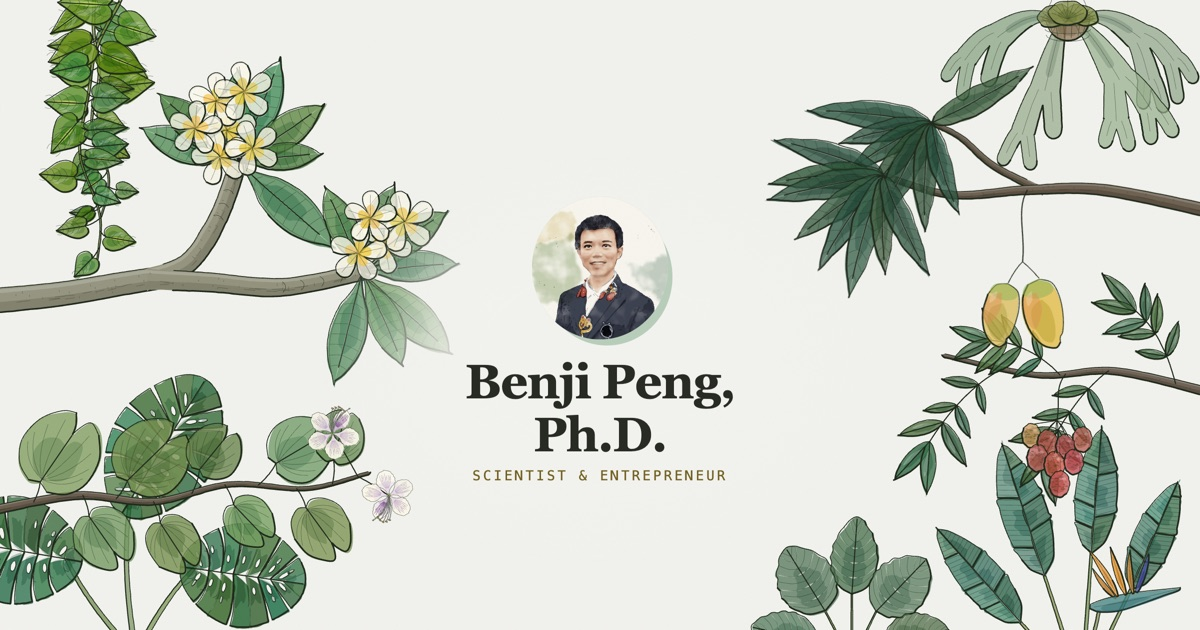
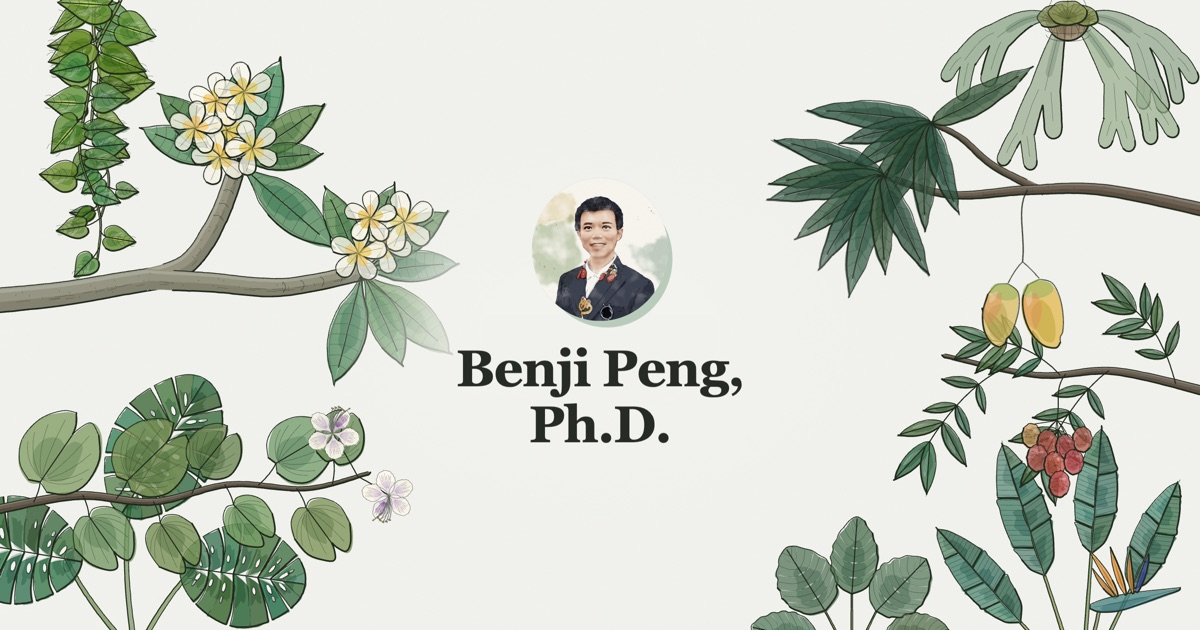
Open on the name and links, and bring the portrait in with the scroll
The "Scientist & Entrepreneur" line under the name is gone. The page now
opens with the name and link cards only. The portrait fades in from a third
to six tenths of the way through the scroll, so touch screens see it arrive
during the autoplay. A class set by the head script keeps the portrait
unseen until main.ts takes over, and shows it after four seconds if the
script never runs. Reduced motion shows it from the start. The share image
is retaken without the title line, and AGENTS.md describes the opening.

Changed region(s): [[0.37, 0.3016, 0.6167, 0.7841], [0.3392, 0.3317, 0.37, 0.4222], [0.2775, 0.3921, 0.3083, 0.4222]]

diff --git a/index.html b/index.html
@@ -28,12 +28,12 @@
     <meta property="og:image:type" content="image/jpeg" />
     <meta property="og:image:width" content="1200" />
     <meta property="og:image:height" content="630" />
-    <meta property="og:image:alt" content="Watercolor portrait of Benji Peng over a hand-drawn tropical garden, with the name Benji Peng, Ph.D., Scientist and Entrepreneur." />
+    <meta property="og:image:alt" content="Watercolor portrait of Benji Peng over a hand-drawn tropical garden, with the name Benji Peng, Ph.D." />
     <meta property="profile:first_name" content="Benji" />
     <meta property="profile:last_name" content="Peng" />
     <meta name="twitter:card" content="summary_large_image" />
     <meta name="twitter:image" content="https://benji.appcubic.com/social.jpg" />
-    <meta name="twitter:image:alt" content="Watercolor portrait of Benji Peng over a hand-drawn tropical garden, with the name Benji Peng, Ph.D., Scientist and Entrepreneur." />
+    <meta name="twitter:image:alt" content="Watercolor portrait of Benji Peng over a hand-drawn tropical garden, with the name Benji Peng, Ph.D." />
     <meta name="twitter:creator" content="@benjipeng" />
 
     <script type="application/ld+json">
@@ -79,6 +79,8 @@
         } catch {
           document.documentElement.dataset.theme = "light";
         }
+        // The portrait stays away when the page opens, until main.ts fades it in with the scroll.
+        if (!matchMedia("(prefers-reduced-motion: reduce)").matches) document.documentElement.classList.add("reveal");
       })();
     </script>
   </head>
@@ -115,7 +117,6 @@
                 </span>
               </div>
               <h1>Benji Peng, Ph.D.</h1>
-              <p class="eyebrow">Scientist &amp; Entrepreneur</p>
             </header>
             <nav class="links" aria-label="Links">
               <div class="link-row">

diff --git a/src/main.ts b/src/main.ts
@@ -89,13 +89,14 @@ if (!still) {
   });
 }
 
-// Scroll story: one smoothed progress value grows the garden. Link rows drift at staggered
-// rates, measured in the height of a one-line row so taller rows never close the gap above
-// them. The cue's seedling grows along, and the cue fades out before the rising card reaches
+// Scroll story: one smoothed progress value grows the garden. The portrait stays away at first
+// and fades in partway through. Link rows drift at staggered rates, measured in the height of a
+// one-line row so taller rows never close the gap above them. The cue's seedling grows along, and the cue fades out before the rising card reaches
 // it. The value eases toward the page's scroll and stops ticking once it arrives.
 function followScroll() {
   const track = document.querySelector<HTMLElement>(".scroll-track")!;
   const header = document.querySelector<HTMLElement>(".card header")!;
+  const portrait = header.querySelector<HTMLElement>(".avatar-frame")!;
   const rows = [...document.querySelectorAll<HTMLElement>(".link-row")];
   const cue = document.querySelector<HTMLElement>(".scroll-cue")!;
   const stem = cue.querySelector<SVGPathElement>(".sprout-stem")!;
@@ -122,6 +123,8 @@ function followScroll() {
     if (Math.abs(target - growth.scroll) < 5e-4) growth.scroll = target;
     const s = growth.scroll;
     header.style.translate = `0 ${-12 * s}%`;
+    portrait.style.opacity = String(clamp((s - 0.3) / 0.3));
+    root.classList.remove("reveal");
     rows.forEach((row, i) => (row.style.translate = `0 ${-(0.2 + i * 0.12) * unit * s}px`));
     cue.style.opacity = String(clamp((0.6 - s) / 0.2));
     cue.style.visibility = s < 0.6 ? "" : "hidden"; // a hidden cue costs its blur nothing

diff --git a/src/style.css b/src/style.css
@@ -106,6 +106,19 @@ body {
 
 /* Card */
 
+/* The portrait stays away when the page opens, and main.ts fades it in with the scroll. Until
+   the script takes over, it waits unseen, and it shows anyway if the script never runs. */
+.reveal .avatar-frame {
+  opacity: 0;
+  animation: reveal-anyway 0.6s 4s forwards;
+}
+
+@keyframes reveal-anyway {
+  to {
+    opacity: 1;
+  }
+}
+
 .card {
   width: min(100%, 23.5rem);
   display: flex;
@@ -171,21 +184,12 @@ body {
 }
 
 h1 {
-  margin: 1rem 0 0.4rem;
+  margin: 1rem 0 0;
   font-family: ui-serif, "New York", Georgia, "Times New Roman", serif;
   font-size: clamp(2.1rem, 5vw, 3.05rem);
   line-height: 1.1;
   font-weight: 700;
   letter-spacing: -0.02em;
-}
-
-.eyebrow {
-  margin: 0;
-  font-family: ui-monospace, "SF Mono", Menlo, Consolas, monospace;
-  font-size: 0.72rem;
-  text-transform: uppercase;
-  letter-spacing: 0.18em;
-  color: var(--accent-ink);
 }
 
 /* Rows stack in one grid. Its middle columns hold the project rows' icons and names, so those
@@ -487,7 +491,7 @@ footer a:hover {
   }
 
   h1 {
-    margin: 0.6rem 0 0.25rem;
+    margin: 0.6rem 0 0;
     font-size: clamp(1.8rem, 4.4vw, 2.4rem);
   }
 

diff --git a/AGENTS.md b/AGENTS.md
@@ -14,7 +14,7 @@ Benji Peng's professional contact card at `benji.appcubic.com`, published from
 ## Design
 
 - The card is fixed and stays distinct from benji.renocrypt.com: centered,
-  system font stacks (serif name, mono eyebrow, sans body), avatar with an
+  system font stacks (serif name, sans body), avatar with an
   offset disc, sun and moon toggle.
 - Links sit in rounded rows split by hairline dividers: GitHub and Google
   Scholar, LinkedIn and Instagram, then X, Discord, and Telegram. App
@@ -103,6 +103,10 @@ Benji Peng's professional contact card at `benji.appcubic.com`, published from
   Nothing slides in or floats. Every visit starts at the top. Switching the
   theme spaces the incoming garden, fetches it on its first showing, and grows
   it in from nothing over about two seconds.
+- The portrait stays away when the page opens, so the name and links come
+  first, and fades in partway through the scroll. A class the head script
+  sets keeps it unseen until `main.ts` takes over, and it shows anyway after
+  a few seconds if the script never runs.
 - Scroll cue: a seedling and "Scroll to grow the garden", pinned at the top
   center on a frosted patch tinted with the paper. The seedling grows with the
   scroll and the cue fades out before the rising card reaches it. It bobs once
@@ -132,12 +136,12 @@ Benji Peng's professional contact card at `benji.appcubic.com`, published from
   2560x1440. Check those sizes in Chrome and in WebKit (Playwright's WebKit
   stands in for Safari), since the two draw SVG filters differently.
 - Honor `prefers-reduced-motion`: the garden shows fully grown and still, with
-  no cue and no autoplay.
+  the portrait from the start, no cue, and no autoplay.
 - When links or copy change, update the descriptions and JSON-LD in
   `index.html`, `public/llms.txt`, and `public/sitemap.xml` together.
 - The share image `public/social.jpg` (1200x630, used by `og:image` and
   `twitter:image`) is the page in the day theme with the garden fully grown and
-  only the portrait, name, and title over it. Take it again when the look
+  only the portrait and name over it. Take it again when the look
   changes.
 - The `theme-color` metas carry each theme's `--bg` for the first paint.
   `main.ts` then sets them from the token for the theme on show.
